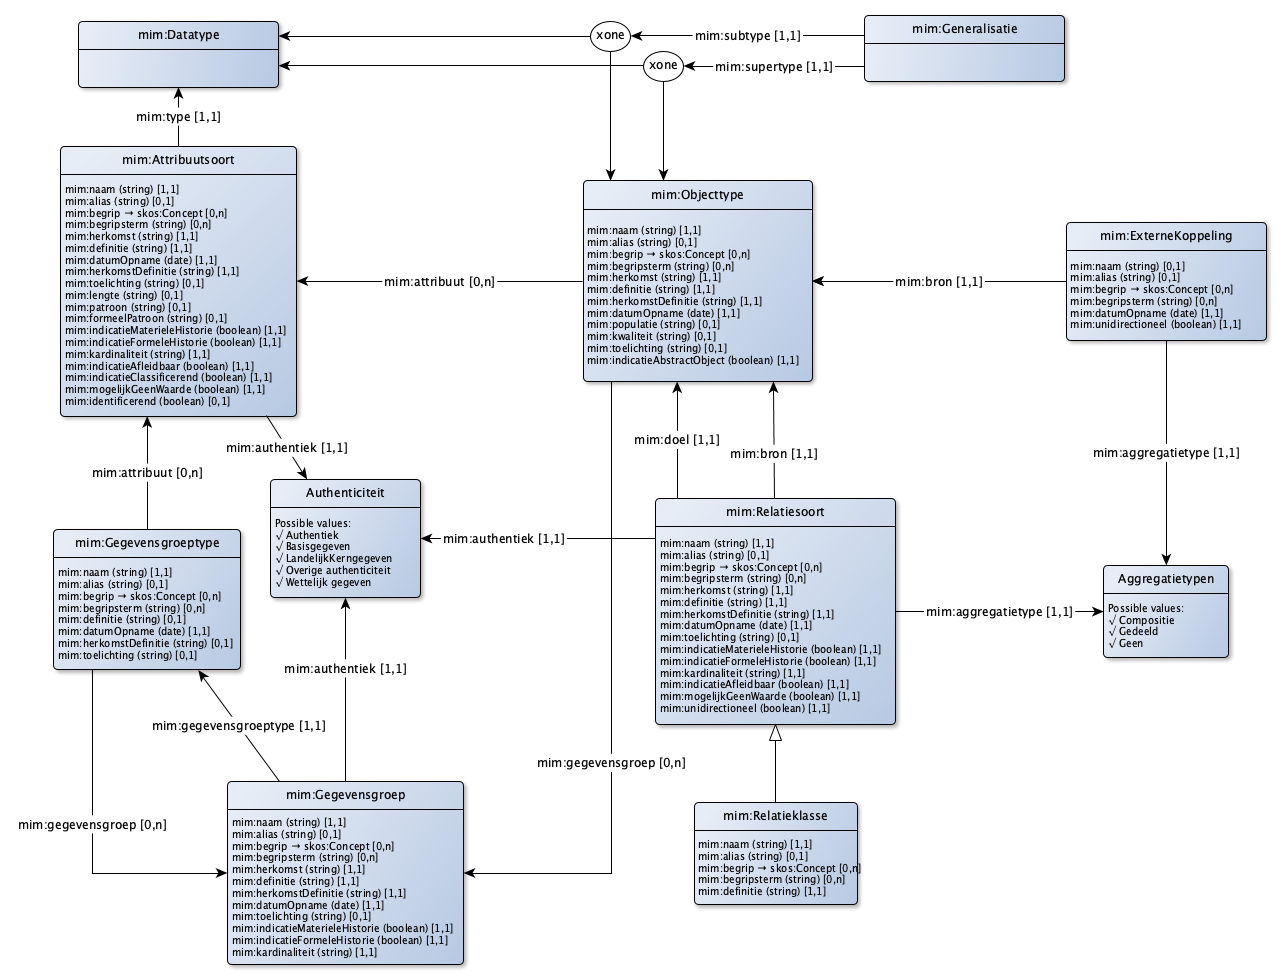
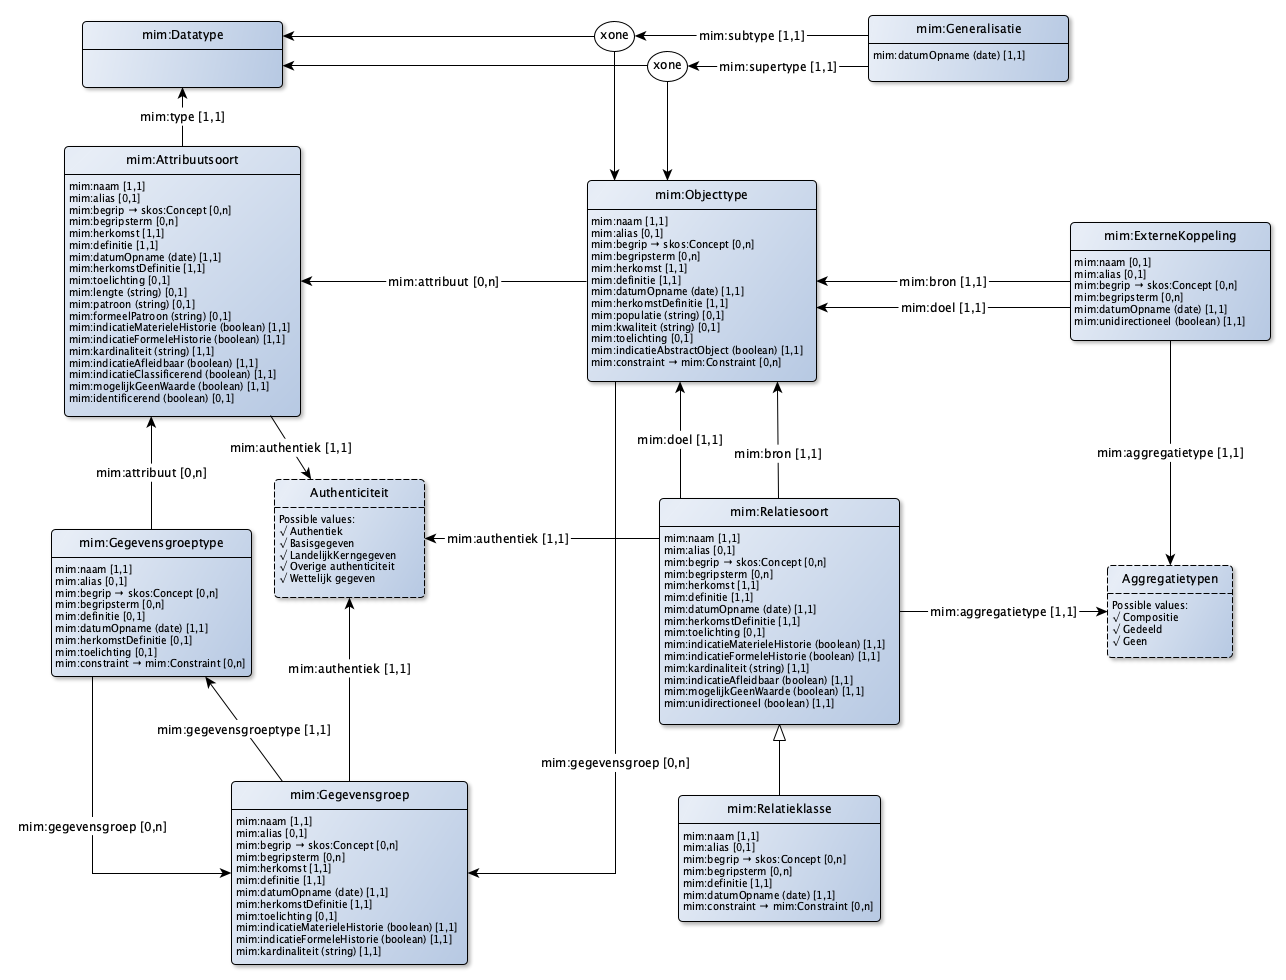
Aanpassingen in model en H4 doorgevoerd voor issue #130

diff --git a/MetamodelLD.md b/MetamodelLD.md
@@ -452,6 +452,7 @@ De generalisaties worden naar het volgende aspect gespecificeerd:
 |------------------------------|----------------|-------------------|--------------|
 | Subtype                      | [`mim:definitie`](http://bp4mc2.org/def/mim#subtype) | 1 | [`mim:Objecttype`](http://bp4mc2.org/def/mim#Objecttype) |
 | Supertype                      | [`mim:definitie`](http://bp4mc2.org/def/mim#supertype) | 1 | [`mim:Objecttype`](http://bp4mc2.org/def/mim#Objecttype) |
+| Datum opname                 | [`mim:datumOpname`](http://bp4mc2.org/def/mim#datumOpname) | 1 | datum |
 
 **Specificatie voor mim:Generalisatie bij datatypen**
 
@@ -473,6 +474,7 @@ De relatieklassen worden naar de volgende aspecten gespecificeerd:
 | Begrip                    | [`mim:begrip`](http://bp4mc2.org/def/mim#begrip) | 0..* | [`skos:Concept`](http://www.w3.org/2004/02/skos/core#Concept) |
 | Begripsterm               | [`mim:begripsterm`](http://bp4mc2.org/def/mim#begripsterm) | 0..* | tekst |
 | Definitie                    | [`mim:definitie`](http://bp4mc2.org/def/mim#definitie) | 0..1 | tekst |
+| Datum opname                 | [`mim:datumOpname`](http://bp4mc2.org/def/mim#datumOpname) | 1 | datum |
 | Constraint                   | [`mim:constraint`](http://bp4mc2.org/def/mim#constraint) | 0..n | [`mim:Constraint`](http://bp4mc2.org/def/mim#Constraint) |
 
 **Specificatie voor mim:ExterneKoppeling**
@@ -601,6 +603,7 @@ De data-elementen worden naar de volgende aspecten gespecificeerd:
 | Begrip                    | [`mim:begrip`](http://bp4mc2.org/def/mim#begrip) | 0..* | [`skos:Concept`](http://www.w3.org/2004/02/skos/core#Concept) |
 | Begripsterm               | [`mim:begripsterm`](http://bp4mc2.org/def/mim#begripsterm) | 0..* | tekst |
 | Definitie                    | [`mim:definitie`](http://bp4mc2.org/def/mim#definitie) | 1 | tekst |
+| Datum opname                 | [`mim:datumOpname`](http://bp4mc2.org/def/mim#datumOpname) | 1 | datum |
 | Type                         | [`mim:type`](http://bp4mc2.org/def/mim#type) | 1 | [`mim:Datatype`](http://bp4mc2.org/def/mim#Datatype) |
 | Lengte                       | [`mim:lengte`](http://bp4mc2.org/def/mim#lengte) | 0..1 | tekst |
 | Patroon                      | [`mim:patroon`](http://bp4mc2.org/def/mim#patroon) | 0..1 | tekst |
@@ -619,6 +622,7 @@ Informatiemodel packages worden naar de volgende aspecten gespecificeerd:
 | Alias                        | [`mim:alias`](http://bp4mc2.org/def/mim#alias) | 0..1 | tekst |
 | Definitie                    | [`mim:definitie`](http://bp4mc2.org/def/mim#definitie) | 1 | tekst |
 | Herkomst                     | [`mim:herkomst`](http://bp4mc2.org/def/mim#herkomst) | 1 | tekst |
+| Datum opname                 | [`mim:datumOpname`](http://bp4mc2.org/def/mim#datumOpname) | 1 | datum |
 | MIM versie                   | [`mim:mimversie`](http://bp4mc2.org/def/mim#mimversie) | 1 | tekst |
 | MIM extensie                 | [`mim:mimextensie`](http://bp4mc2.org/def/mim#mimextensie) | 0..1 | tekst |
 | MIM taal                     | [`mim:mimtaal`](http://bp4mc2.org/def/mim#mimtaal) | 0..1 | tekst |
@@ -649,6 +653,7 @@ Domein packages worden naar de volgende aspecten gespecificeerd:
 |------------------------------|----------------|-------------------|--------------|
 | Naam                         | [`mim:naam`](http://bp4mc2.org/def/mim#naam) | 1 | tekst |
 | Alias                        | [`mim:alias`](http://bp4mc2.org/def/mim#alias) | 0..1 | tekst |
+| Datum opname                 | [`mim:datumOpname`](http://bp4mc2.org/def/mim#datumOpname) | 1 | datum |
 
 **Specificatie voor mim:Extern**
 
@@ -661,6 +666,7 @@ Externe packages worden naar de volgende aspecten gespecificeerd:
 | Locatie                      | [`mim:locatie`](http://bp4mc2.org/def/mim#locatie) | 1 | tekst |
 | Definitie                    | [`mim:definitie`](http://bp4mc2.org/def/mim#definitie) | 1 | tekst |
 | Herkomst                     | [`mim:herkomst`](http://bp4mc2.org/def/mim#herkomst) | 1 | tekst |
+| Datum opname                 | [`mim:datumOpname`](http://bp4mc2.org/def/mim#datumOpname) | 1 | datum |
 
 **Specificatie voor mim:View**
 
@@ -673,6 +679,7 @@ View packages worden naar de volgende aspecten gespecificeerd:
 | Locatie                      | [`mim:locatie`](http://bp4mc2.org/def/mim#locatie) | 1 | tekst |
 | Definitie                    | [`mim:definitie`](http://bp4mc2.org/def/mim#definitie) | 1 | tekst |
 | Herkomst                     | [`mim:herkomst`](http://bp4mc2.org/def/mim#herkomst) | 1 | tekst |
+| Datum opname                 | [`mim:datumOpname`](http://bp4mc2.org/def/mim#datumOpname) | 1 | datum |
 
 ### Specificatie metagegevens - overig
 
@@ -688,6 +695,7 @@ aspecten gespecificeerd:
 | Begrip                    | [`mim:begrip`](http://bp4mc2.org/def/mim#begrip) | 0..* | [`skos:Concept`](http://www.w3.org/2004/02/skos/core#Concept) |
 | Begripsterm               | [`mim:begripsterm`](http://bp4mc2.org/def/mim#begripsterm) | 0..* | tekst |
 | Definitie                    | [`mim:definitie`](http://bp4mc2.org/def/mim#definitie) | 1 | tekst |
+| Datum opname                 | [`mim:datumOpname`](http://bp4mc2.org/def/mim#datumOpname) | 1 | datum |
 | Waarde                       | [`mim:waarde`](http://bp4mc2.org/def/mim#Enumeratiewaarde) | 1..* | [`mim:Waarde`](http://bp4mc2.org/def/mim#Enumeratiewaarde)
 
 #### Specificatie voor Enumeratiewaarde
@@ -702,6 +710,7 @@ volgende aspecten:
 | Code                         | [`mim:code`](http://bp4mc2.org/def/mim#code) | 0..1 | tekst |
 | Begrip                       | [`mim:begrip`](http://bp4mc2.org/def/mim#begrip) | 0..* | [`skos:Concept`](http://www.w3.org/2004/02/skos/core#Concept) |
 | Begripsterm                  | [`mim:begripsterm`](http://bp4mc2.org/def/mim#begripsterm) | 0..* | tekst |
+| Datum opname                 | [`mim:datumOpname`](http://bp4mc2.org/def/mim#datumOpname) | 1 | datum |
 
 Een enumeratiewaarde mag geen alias hebben, omdat in UML het alias-veld wordt gebruikt voor de mim:code. Mocht toch een `mim:alias` zijn opgegeven voor een enumeratiewaarde, dan dient deze gelezen te worden als een `mim:code`. In het RDF model is `mim:code` een subproperty van een `mim:alias`.
 
